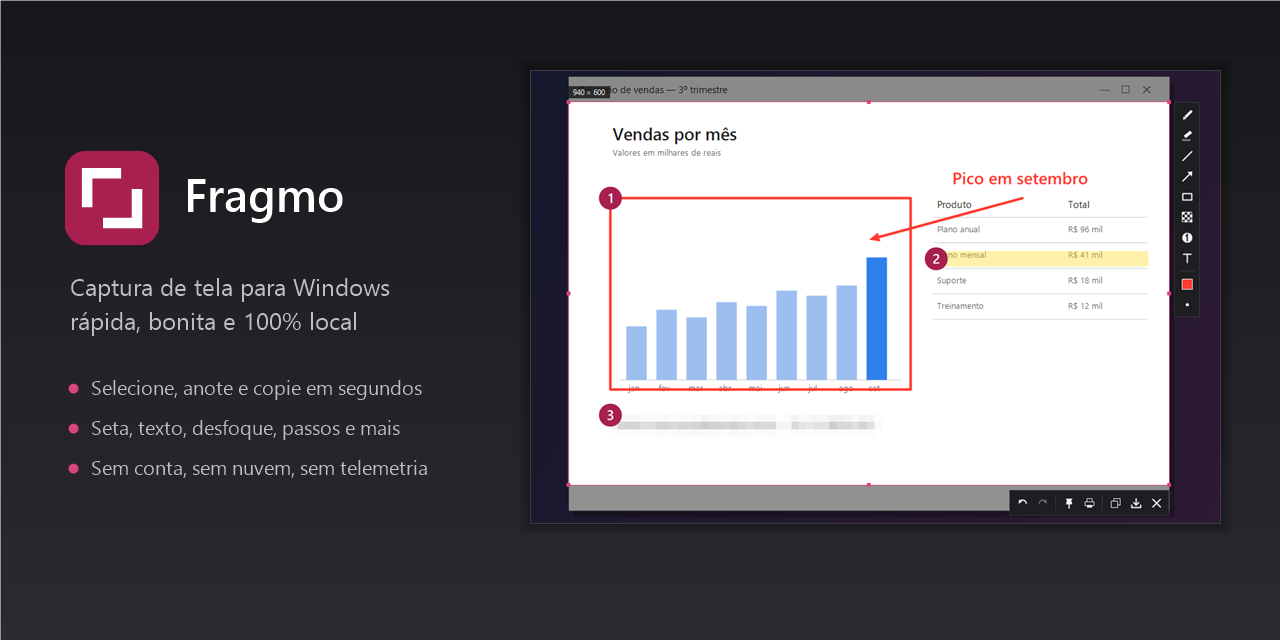
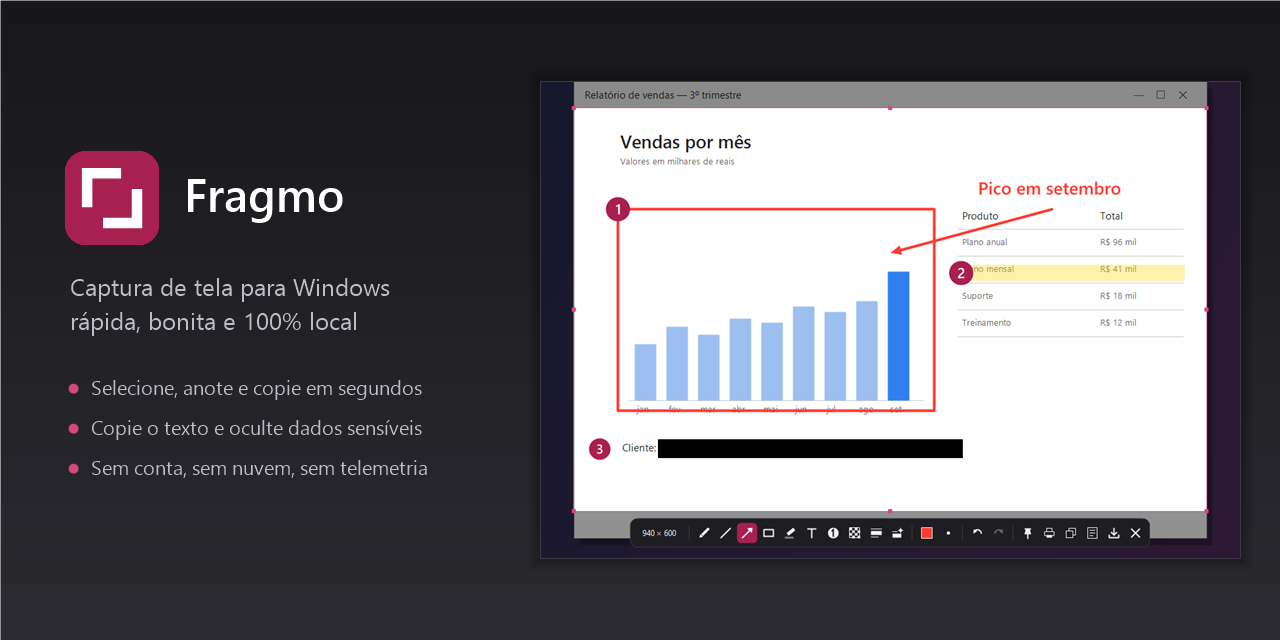
docs: prints novos da 0.3.0 (barra única, copiar texto e ocultar dados)

Changed region(s): [[0.4375, 0.0938, 0.9688, 0.8438], [0.0625, 0.6562, 0.3438, 0.6875]]

diff --git a/README.md b/README.md
@@ -1,4 +1,3 @@
-<!-- PRINT NOVO: banner.png — o banner mostra o editor com as barras antigas; refazer com a barra única. -->
 <p align="center">
   <img src="docs/images/banner.png" alt="Fragmo — captura de tela para Windows" width="100%">
 </p>
@@ -47,14 +46,12 @@ numa pasta qualquer e abra. Para iniciar com o Windows, ligue a opção em **Con
 **1. Selecione.** Aperte Print Screen: a tela congela e você arrasta para escolher a área. A lupa mostra cada pixel e
 a cor sob o cursor, e o tamanho da seleção aparece enquanto você arrasta.
 
-<!-- PRINT NOVO: selecao.png — arrastando a seleção, com a lupa e o tamanho no canto. -->
 <p align="center"><img src="docs/images/selecao.png" alt="Selecionando uma área com a lupa" width="85%"></p>
 
 **2. Anote.** Ao soltar o mouse, aparece **uma barra só**, centralizada abaixo da seleção, com o tamanho da área no
 começo e as ferramentas em grupos. Destaque com retângulo, seta e marcador, escreva um texto, numere os passos e
 esconda dados sensíveis com a **tarja opaca**, à mão ou com [ocultar dados sensíveis](#ocultar-dados-sensíveis).
 
-<!-- PRINT NOVO: editor.png — seleção com anotações e a barra única embaixo (tamanho, ferramentas, cor, desfazer, ações). -->
 <p align="center"><img src="docs/images/editor.png" alt="Editor com a barra única: seta, retângulo, texto, marcador, passos e tarja" width="85%"></p>
 
 **3. Use.** Copie a imagem (`Ctrl+C` ou `Enter`) e cole onde quiser, **copie o texto** que está na imagem (`O`), salve
@@ -83,7 +80,7 @@ do próprio Windows, no idioma do seu perfil, e roda no computador: nada é envi
 Se aparecer o aviso de que falta o idioma, instale o pacote em **Configurações do Windows › Hora e idioma › Idioma e
 região › "…" ao lado do idioma › Opções de idioma › Reconhecimento óptico de caracteres › Baixar**.
 
-<!-- PRINT NOVO: copiar-texto.png — seleção sobre um texto e o aviso "N linhas copiadas" na bandeja. -->
+<p align="center"><img src="docs/images/copiar-texto.png" alt="Copiar texto: a seleção sobre uma mensagem de erro e o texto que foi para a área de transferência" width="95%"></p>
 
 ### Ocultar dados sensíveis
 
@@ -109,7 +106,7 @@ imagem antes de compartilhar e complete com a tarja à mão se precisar.
 > conhecido (CPF, telefone, e-mail), dá para reconstruir o conteúdo comparando com versões pixelizadas de candidatos.
 > Para qualquer coisa que não pode vazar, use a tarja.
 
-<!-- PRINT NOVO: ocultar-dados.png — antes e depois: CPF, e-mail e telefone cobertos com tarja e o aviso na bandeja. -->
+<p align="center"><img src="docs/images/ocultar-dados.png" alt="Antes e depois: CPF, e-mail e celular cobertos com tarja preta" width="95%"></p>
 
 ### Atalhos globais
 
@@ -126,7 +123,6 @@ Clique com o botão direito no ícone da bandeja › **Configurações…**. Os 
 pressione a combinação), e você escolhe a pasta, o formato, o prefixo do nome, o tema, o idioma e se os dados
 sensíveis são ocultados sozinhos ao capturar.
 
-<!-- PRINT NOVO: configuracoes.png — tela de configurações com a opção "Ocultar dados sensíveis automaticamente ao capturar". -->
 <p align="center"><img src="docs/images/configuracoes.png" alt="Tela de configurações" width="420"></p>
 
 **A tecla Print Screen abre a ferramenta do Windows?** No Windows 11 ela vem reservada para a captura do próprio
@@ -195,14 +191,12 @@ in any folder and run it. To start it with Windows, turn the option on in **Sett
 **1. Select.** Press Print Screen: the screen freezes and you drag to pick the area. The magnifier shows every pixel
 and the color under the cursor, and the selection size is shown while you drag.
 
-<!-- NEW SCREENSHOT: selecao.png — dragging the selection, with the magnifier and the size in the corner. -->
 <p align="center"><img src="docs/images/selecao.png" alt="Selecting an area with the magnifier" width="85%"></p>
 
 **2. Annotate.** When you release the mouse, **a single toolbar** appears, centered below the selection, with the area
 size first and the tools in groups. Highlight with rectangles, arrows and the highlighter, add text, number the steps
 and hide sensitive data with the **redaction bar**, by hand or with [hide sensitive data](#hide-sensitive-data).
 
-<!-- NEW SCREENSHOT: editor.png — selection with annotations and the single toolbar below it. -->
 <p align="center"><img src="docs/images/editor.png" alt="Editor with the single toolbar: arrow, rectangle, text, highlighter, steps and redaction" width="85%"></p>
 
 **3. Use it.** Copy the image (`Ctrl+C` or `Enter`) and paste anywhere, **copy the text** in the image (`O`), save as
@@ -230,7 +224,7 @@ language, and runs on your computer: nothing is sent to the internet.
 If you are told a language is missing, install it in **Windows Settings › Time & language › Language & region › "…"
 next to the language › Language options › Optical character recognition › Download**.
 
-<!-- NEW SCREENSHOT: copiar-texto.png — selection over some text and the "N lines copied" tray notice. -->
+<p align="center"><img src="docs/images/copiar-texto.png" alt="Copy text: a selection over an error message and the text placed on the clipboard" width="95%"></p>
 
 ### Hide sensitive data
 
@@ -256,7 +250,7 @@ and add redactions by hand if needed.
 > email) can be reconstructed by comparing it with pixelated versions of candidates. For anything that must not leak,
 > use redaction.
 
-<!-- NEW SCREENSHOT: ocultar-dados.png — before and after: CPF, email and phone redacted, plus the tray notice. -->
+<p align="center"><img src="docs/images/ocultar-dados.png" alt="Before and after: CPF, email and phone covered with black redaction bars" width="95%"></p>
 
 ### Global hotkeys
 
